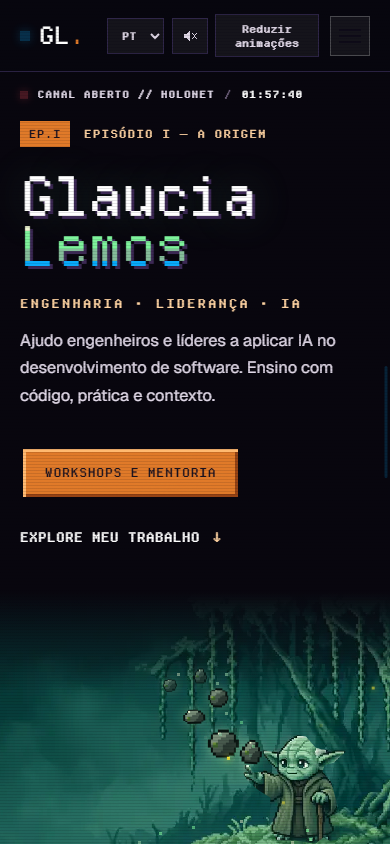
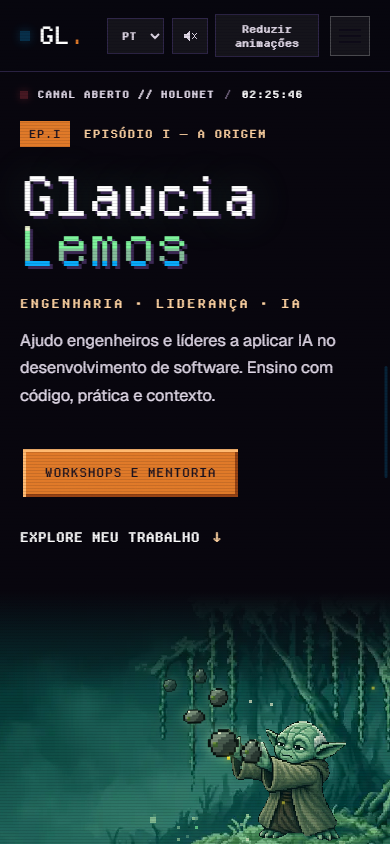
feat: update hero scenes and tests for Yoda's Force pose interactions

diff --git a/src/components/home/HeroMotion.tsx b/src/components/home/HeroMotion.tsx
@@ -100,9 +100,7 @@ export function HeroMotion({ children, jumpLabel, forceLabel, labelledBy }: { ch
           .to(element, { x: 0, y: 0, rotation: 0, duration: 1.8, ease: "elastic.out(1, .35)" });
       });
     };
-    // The Force, held: charging → Yoda switches to the Force pose → an X-wing rises from the swamp.
-    const palmAura = section.querySelector<HTMLElement>(".force-palm");
-    const character = section.querySelector<HTMLElement>(".dagobah-character");
+    // The Force, held: charging → Yoda powers up → an X-wing rises from the swamp.
     const pose = section.querySelector<HTMLElement>(".yoda-force")!;
     const aura = pose.querySelector(".yoda-force__aura");
     const robe = pose.querySelector(".yoda-force__robe");
@@ -121,9 +119,8 @@ export function HeroMotion({ children, jumpLabel, forceLabel, labelledBy }: { ch
     const later = (callback: () => void, ms: number) => timers.push(window.setTimeout(callback, ms));
     const clearTimers = () => { timers.forEach((timer) => { clearTimeout(timer); clearInterval(timer); }); timers = []; };
     const stopLoops = () => { loops.forEach((loop) => loop.kill()); loops = []; };
-    const preload = () => { pose.dataset.loaded = "true"; };
     const centre = (element: Element) => { const box = element.getBoundingClientRect(); return { x: box.left + box.width / 2, y: box.top + box.height / 2 }; };
-    palmsOf = () => stage === "force" || stage === "xwing" ? posePalms.map(centre) : glowPalm();
+    palmsOf = () => posePalms.map(centre);
     const ring = (point: { x: number; y: number }, scale: number) => {
       const box = section.getBoundingClientRect();
       const wave = document.createElement("span");
@@ -132,7 +129,7 @@ export function HeroMotion({ children, jumpLabel, forceLabel, labelledBy }: { ch
       section.appendChild(wave);
       gsap.fromTo(wave, { scale: .1, autoAlpha: 1 }, { scale, autoAlpha: 0, duration: .9, ease: "power2.out", onComplete: () => wave.remove() });
     };
-    const charge = (on: boolean) => gsap.to(palmAura, { autoAlpha: on ? 1 : 0, scale: on ? 1.6 : 1, duration: on ? .25 : .5, ease: on ? "power2.out" : "power2.in", overwrite: true });
+    const charge = (on: boolean) => gsap.to(posePalms, { opacity: on ? 1 : .4, scale: on ? 1.6 : 1, duration: on ? .25 : .5, ease: on ? "power2.out" : "power2.in", overwrite: true });
 
     const raiseXwing = () => {
       setStage("xwing");
@@ -156,14 +153,13 @@ export function HeroMotion({ children, jumpLabel, forceLabel, labelledBy }: { ch
       particles.intensify(true);
       charge(false);
       gsap.timeline()
-        .set(pose, { autoAlpha: 1, x: 0, filter: FLASH })
-        .set(character, { autoAlpha: 0 })
-        .to(pose, { filter: "brightness(1) saturate(1)", duration: .36, ease: "steps(4)" });
+        .fromTo(pose, { filter: FLASH }, { filter: "brightness(1.15) saturate(1.2)", duration: .36, ease: "steps(4)" })
+        .to(pose, { y: -5, duration: .35, ease: "back.out(3)" }, 0);
       ring(centre(pose), 5);
       gsap.to(layer, { keyframes: { x: [-6, 5, -3, 2, 0] }, duration: .35, ease: "none", overwrite: "auto" });
       loops.push(
         gsap.fromTo(aura, { opacity: .35, scale: .95 }, { opacity: .95, scale: 1.07, duration: .7, repeat: -1, yoyo: true, ease: "sine.inOut" }),
-        gsap.fromTo(posePalms, { autoAlpha: .5, scale: .8 }, { autoAlpha: 1, scale: 1.9, duration: .45, repeat: -1, yoyo: true, ease: "sine.inOut" }),
+        gsap.fromTo(posePalms, { opacity: .5, scale: .8 }, { opacity: 1, scale: 1.9, duration: .45, repeat: -1, yoyo: true, ease: "sine.inOut" }),
         gsap.timeline({ repeat: -1, defaults: { ease: "steps(2)" } }).to(earRight, { rotation: -12, duration: .14 }).to(earRight, { rotation: 3, duration: .4 }).to(earRight, { rotation: -5, duration: .5 }),
         gsap.timeline({ repeat: -1, delay: .1, defaults: { ease: "steps(2)" } }).to(earLeft, { rotation: 10, duration: .14 }).to(earLeft, { rotation: -2, duration: .45 }).to(earLeft, { rotation: 4, duration: .5 }),
         gsap.fromTo(robe, { skewX: -1.3 }, { skewX: 1.3, duration: .55, repeat: -1, yoyo: true, ease: "steps(3)" }),
@@ -183,7 +179,8 @@ export function HeroMotion({ children, jumpLabel, forceLabel, labelledBy }: { ch
     const reset = () => {
       clearTimers(); stopLoops();
       gsap.set([earLeft, earRight, robe], { rotation: 0, skewX: 0 });
-      gsap.to(posePalms, { autoAlpha: 0, scale: 1, duration: .3, overwrite: true });
+      gsap.to(posePalms, { opacity: .4, scale: 1, duration: .3, overwrite: true });
+      gsap.to(aura, { opacity: 0, scale: 1, duration: .5, overwrite: true });
       gsap.to(meter, { scaleX: 0, duration: .3, overwrite: true });
       particles.intensify(false);
     };
@@ -198,11 +195,9 @@ export function HeroMotion({ children, jumpLabel, forceLabel, labelledBy }: { ch
       posePalms.forEach((palm) => ring(centre(palm), 6));
       gsap.timeline()
         .to(pose, { x: -10, duration: .12, ease: "power2.out" })
-        .to(pose, { x: 0, duration: .25, ease: "power2.in" })
-        .to(pose, { filter: FLASH, duration: .12, ease: "steps(2)" }, "+=.15")
-        .set(pose, { autoAlpha: 0, filter: "none" })
-        .set(character, { autoAlpha: 1 })
-        .fromTo(character, { filter: "brightness(4) saturate(0)" }, { filter: "brightness(1) saturate(1)", duration: .3, ease: "steps(3)" });
+        .to(pose, { x: 0, y: 0, duration: .25, ease: "power2.in" })
+        .to(pose, { filter: FLASH, duration: .1, ease: "steps(2)" }, "+=.1")
+        .to(pose, { filter: "brightness(1) saturate(1)", duration: .3, ease: "steps(3)" });
       gsap.to(layer, { keyframes: { y: [0, 4, -2, 1, 0] }, duration: .45, delay: .35, ease: "none", overwrite: "auto" });
       pushes.forEach((element, index) => gsap.timeline({ delay: index * .03 })
         .to(element, { x: `-=${gsap.utils.random(30, 70)}`, y: "-=30", duration: .2, ease: "power3.out", overwrite: true })
@@ -222,7 +217,6 @@ export function HeroMotion({ children, jumpLabel, forceLabel, labelledBy }: { ch
     };
     const down = (event: PointerEvent) => {
       if ((event.target as Element).closest(INTERACTIVE) || event.button !== 0) return;
-      preload();
       cancelPress();
       press = { x: event.clientX, y: event.clientY };
       setStage("charging");
@@ -236,7 +230,6 @@ export function HeroMotion({ children, jumpLabel, forceLabel, labelledBy }: { ch
       release();
     };
     const abort = () => { cancelPress(); release(); };
-    section.addEventListener("pointerenter", preload, { once: true });
     section.addEventListener("pointermove", move, { passive: true });
     section.addEventListener("pointermove", drag, { passive: true });
     section.addEventListener("pointerleave", leave);
@@ -274,10 +267,9 @@ export function HeroMotion({ children, jumpLabel, forceLabel, labelledBy }: { ch
     return () => {
       cancelIntro(); stopActivity(); particles.destroy(); jump?.destroy();
       clearTimers(); stopLoops();
-      gsap.killTweensOf([pose, character, ship, meter, rings, posePalms, earLeft, earRight, robe, aura]);
-      gsap.set([pose, character, ship, meter, earLeft, earRight, robe, aura, ...rings, ...posePalms], { clearProps: "all" });
+      gsap.killTweensOf([pose, ship, meter, rings, posePalms, earLeft, earRight, robe, aura]);
+      gsap.set([pose, ship, meter, earLeft, earRight, robe, aura, ...rings, ...posePalms], { clearProps: "transform,filter,opacity,visibility" });
       delete layer.dataset.levitating; delete section.dataset.forceStage;
-      section.removeEventListener("pointerenter", preload);
       section.removeEventListener("pointermove", move); section.removeEventListener("pointermove", drag); section.removeEventListener("pointerleave", leave); section.removeEventListener("pointerleave", abort);
       section.removeEventListener("pointercancel", abort); section.removeEventListener("pointerdown", down); section.removeEventListener("pointerup", up);
       section.querySelectorAll(".force-wave").forEach((wave) => wave.remove());

diff --git a/src/components/home/DagobahScene.tsx b/src/components/home/DagobahScene.tsx
@@ -12,7 +12,9 @@ const rockShapes = [
   [".....ooo....", "....ohllo...", "...olllmo...", "..olllmmmo..", "..ollmmmmo..", ".olGgmmmddo.", ".omggmmdddo.", ".ommmmddddo.", "..ommmdddo..", "..oddddddo..", "...oooooo...", "............"],
   ["............", "............", "...ooooo....", "..ohlllloo..", ".olllllmmmo.", "ollllmmmmddo", "olGgmmmmdddo", "omggmmmddddo", ".ommmmddddo.", "..oooooooo..", "............", "............"],
 ];
-// Fan out above-left from the palm at (620, 285), in 1024 × 576 image space.
+// Fan out above-left from the palm, in 1024 × 576 image space. The fan was drawn for the original
+// palm at (620, 285); ROCK_SHIFT moves it to the Force-pose Yoda's raised hands so they stay visible.
+const ROCK_SHIFT = { x: -40, y: -55 };
 const rockLayers = [
   { depth: "back", rocks: [
     { x: 480, y: 140, size: 22.1, shape: 0 },
@@ -92,7 +94,7 @@ export function DagobahScene() {
           data-depth={layerIndex + 1}
           key={`${x}-${y}`}
           style={{
-            left: `${x / 1024 * 100}%`, top: `${y / 576 * 100}%`, width: `${size / 1024 * 100}%`,
+            left: `${(x + ROCK_SHIFT.x) / 1024 * 100}%`, top: `${(y + ROCK_SHIFT.y) / 576 * 100}%`, width: `${size / 1024 * 100}%`,
             "--float-duration": `${4.2 + index * .6 + layerIndex * .4}s`,
             "--float-delay": `${-index * 1.3 - layerIndex * .8}s`,
           } as CSSProperties}

diff --git a/src/app/hero-scenes.css b/src/app/hero-scenes.css
@@ -171,7 +171,7 @@
 .yoda-force__robe { background-image: url("/pixel/yoda-force/robe.webp"); }
 .yoda-force__ear--left { background-image: url("/pixel/yoda-force/ear-left.webp"); }
 .yoda-force__ear--right { background-image: url("/pixel/yoda-force/ear-right.webp"); }
-/* At rest: a faint glow in both palms and, with motion on, an occasional ear twitch. */
+/* At rest: a faint glow in both palms and, with motion on, an occasional ear flick. */
 .force-palm--pose { opacity: .4; }
 @media (prefers-reduced-motion: no-preference) {
   html:not(.reduce-motion) .yoda-force__ear--right { animation: yoda-ear-right 7s steps(1) infinite; }
